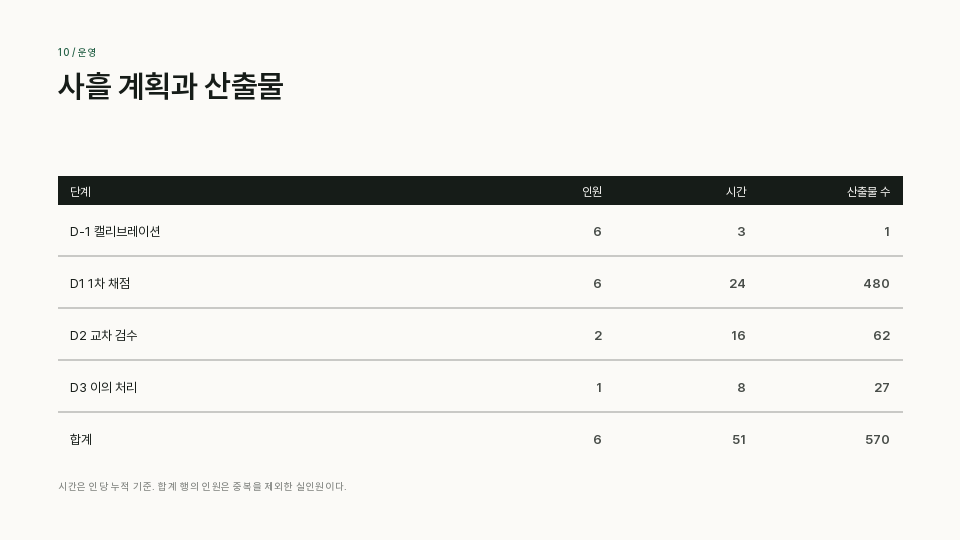
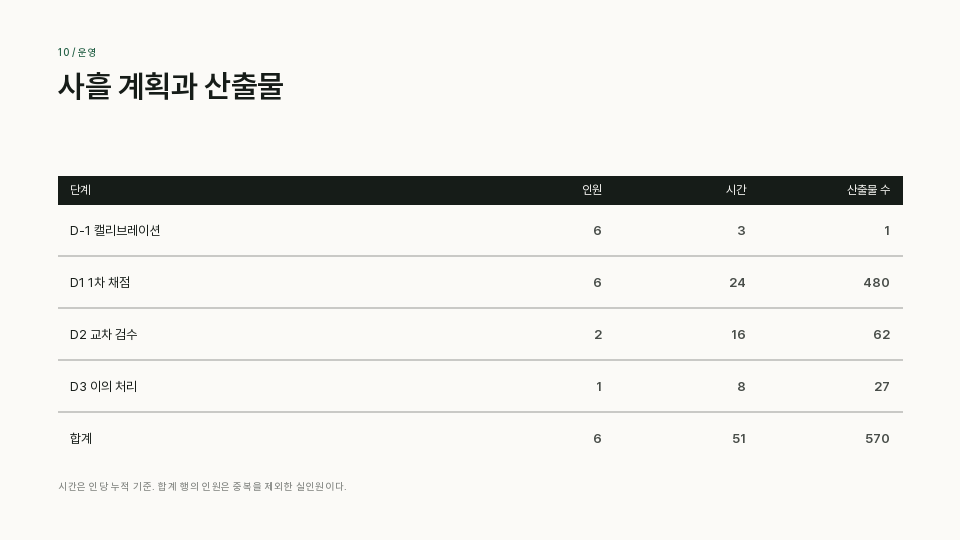
박스 내부 정렬·여백 정밀화 (지적 6건)
- two_col: 리드가 제목과 겹치던 버그. head() 가 제목 하단 y 를 돌려주고
  리드는 그 아래 14pt 에 붙는다. 본문은 분량이 적으면 13 -> 15.5pt 로 키우고
  색도 ink2 -> figure 로 (작고 흐린 회색 덩어리로 보이던 문제)
- statement: 폭을 span10 -> 11 로 넓히고 크기를 display 38 -> cover 46 으로.
  슬라이드 제목과 같은 크기면 주장으로 읽히지 않는다
- panel_list: 패널 높이를 가장 큰 것에 맞춰 통일. 번호 칩을 주문장 첫 줄의
  세로 중앙에 맞춤(전에는 상단 맞춤이라 어긋나 보였다)
- stair: 박스 내부 좌여백 축소 (배지 30 -> 16, 제목 82 -> 58).
  실측 30.2/82.1 은 838폭 기준이라 65pt 높이 박스엔 과했다
- compare: 제목+본문 블록을 패널 세로 중앙에. 배지만 중앙이고 글은 위에
  붙어 있어 따로 놀았다
- nest: 고리 라벨을 노출된 띠의 넓은 쪽으로 내리고, 오른쪽 패널 묶음을
  왼쪽 다이어그램과 세로 중심 맞춤
- table: 머리판 y 176 -> 150. 모든 셀과 머리 라벨을 행 높이 안에서
  세로 중앙에 (exact_center) — 행마다 눈높이가 흔들리지 않게

예제의 강제 줄바꿈도 제거했다. 손으로 넣은 \n 이 폭을 낭비하고 있었다.

diff --git a/scripts/build.py b/scripts/build.py
@@ -47,6 +47,7 @@ class L:
         self.block = r.get("block_y", r["content_y"])   # 도형 블록 시작 (실측 176)
         self.h = self.bottom - self.top
         self.gap = d.spec["anchors"]["gap_block"]
+        self.title_bottom = self.title_y
         self.d = d
 
     def balance(self, text, w, style):
@@ -97,6 +98,7 @@ class L:
             h = block_h(t, span_w(span), st, d.spec["fonts"][st["font"]])
             d.text(s, title_style, col_x(1), self.title_y, span_w(span), h,
                    t.split("\n"), tag="title")
+            self.title_bottom = self.title_y + h
 
     def bh(self, text, w, style):
         st = self.d.spec["styles"][style]
@@ -160,13 +162,13 @@ def statement(d, s, m, sl):
     g = L(d)
     g.head(s, sl, span=9)
     text = _t(sl, "text")
-    th = g.bh(text, span_w(10), "display")
+    th = g.bh(text, span_w(11), "cover")
     body = _paras(sl, "body")
     bh_ = g.bh("\n".join(body), span_w(7), "lead") if body else 0
     total = th + (g.gap + bh_ if bh_ else 0)
     y = resolve_y(total, d.spec, top=g.top)
     acc = sl.get("accent_lines") or []
-    d.text(s, "display", col_x(1), y, span_w(10), th, text.split("\n"),
+    d.text(s, "cover", col_x(1), y, span_w(11), th, text.split("\n"),
            accent_paras=tuple(acc), tag="statement")
     if bh_:
         d.text(s, "lead", col_x(1), y + th + g.gap, span_w(7), bh_, body,
@@ -180,32 +182,36 @@ def two_col(d, s, m, sl):
     lead = _t(sl, "lead")
     body = _paras(sl, "bullets", "body")
     lw, rw = span_w(4), span_w(7)
+    # 분량이 적을 때 13pt 로 두면 화면이 비어 보인다. 한 단계 키운다.
+    bstyle = "lead" if sum(len(b) for b in body) < 190 else "body"
     lh = g.bh(lead, lw, "lead") if lead else 0
-    rh = g.bh("\n".join(body), rw, "body") if body else 0
+    rh = g.bh("\n".join(body), rw, bstyle) if body else 0
     sub, subb = _t(sl, "subhead"), _t(sl, "subbody")
     sh_ = g.bh(sub, rw, "h2") if sub else 0
-    sbh = g.bh(subb, rw, "body") if subb else 0
+    sbh = g.bh(subb, rw, bstyle) if subb else 0
     right_total = rh + (g.gap + sh_ if sh_ else 0) + (8 + sbh if sbh else 0)
     # 좌·우 컬럼을 같은 기준선에 세우고, 남는 높이의 38%만 위에 둔다
     # 왼쪽에 리드가 없으면 2단이 아니다 — 빈 컬럼을 남기지 말고 한 단으로 넓게 쓴다
     if not lead:
         rw = span_w(9)
-        rh = g.bh("\n".join(body), rw, "body") if body else 0
+        rh = g.bh("\n".join(body), rw, bstyle) if body else 0
         sh_ = g.bh(sub, rw, "h2") if sub else 0
-        sbh = g.bh(subb, rw, "body") if subb else 0
+        sbh = g.bh(subb, rw, bstyle) if subb else 0
         right_total = rh + (g.gap + sh_ if sh_ else 0) + (8 + sbh if sbh else 0)
         col = 1
     else:
         col = 6
-    y = resolve_y(max(lh, right_total), d.spec, top=g.block)
+    # 리드는 제목 바로 아래(content_y)에 붙인다. 본문과 같은 줄에 두면 허공에 뜬다.
     if lh:
-        d.text(s, "lead", col_x(1), y, lw, lh, lead, color="muted", tag="lead")
+        d.text(s, "lead", col_x(1), max(g.top, g.title_bottom + 14), lw, lh,
+               lead, color="muted", tag="lead")
+    y = resolve_y(right_total, d.spec, top=g.block)
     if rh:
-        d.text(s, "body", col_x(col), y, rw, rh, body, color="ink2", tag="body")
+        d.text(s, bstyle, col_x(col), y, rw, rh, body, color="figure", tag="body")
     if sh_:
         d.text(s, "h2", col_x(col), y + rh + g.gap, rw, sh_, sub, tag="subhead")
         if sbh:
-            d.text(s, "body", col_x(col), y + rh + g.gap + sh_ + 8, rw, sbh, subb,
+            d.text(s, bstyle, col_x(col), y + rh + g.gap + sh_ + 8, rw, sbh, subb,
                    color="ink2", tag="subbody")
 
 
@@ -388,16 +394,22 @@ def panel_list(d, s, m, sl):
 
     px, pw = col_x(1), span_w(12)
     tx = px + SH["panel_text_x"]
-    for it in (sl.get("items") or [])[:4]:
-        lead_h = g.bh(it.get("text", ""), pw - SH["panel_text_x"] - SH["panel_pad_x"], "lead")
+    items_ = (sl.get("items") or [])[:4]
+    tw_ = pw - SH["panel_text_x"] - SH["panel_pad_x"]
+    # 패널 높이를 가장 큰 것에 맞춘다 — 높이가 제각각이면 목록이 흐트러져 보인다
+    ph = max(SH["panel_pad_y"] + g.bh(it.get("text", ""), tw_, "lead") + 8
+             + len(it.get("subs") or []) * SH["subrow_step"] + SH["panel_pad_y"]
+             for it in items_) if items_ else 0
+    for it in items_:
+        lead_h = g.bh(it.get("text", ""), tw_, "lead")
         subs = it.get("subs") or []
-        ph = SH["panel_pad_y"] + lead_h + 8 + len(subs) * SH["subrow_step"] + SH["panel_pad_y"]
         d.panel(s, px, y, pw, ph, radius=SH["panel_radius"])
-        d.chip(s, px + SH["panel_pad_x"] + 0.5, y + SH["panel_pad_y"],
+        # 칩을 주문장 첫 줄의 세로 중앙에 맞춘다
+        line_h = d.spec["styles"]["lead"]["size"] * d.spec["styles"]["lead"]["leading"]
+        d.chip(s, px + SH["panel_pad_x"], y + SH["panel_pad_y"] + (line_h - SH["chip_h"]) / 2,
                SH["chip_w"], SH["chip_h"], str(it.get("index", "")),
                color="accent", text_color="ground", style="small")
-        d.text(s, "lead", tx, y + SH["panel_pad_y"] + 1,
-               pw - SH["panel_text_x"] - SH["panel_pad_x"], lead_h,
+        d.text(s, "lead", tx, y + SH["panel_pad_y"], tw_, lead_h,
                it.get("text", ""), font_key="head", tag="panel-text")
         sy = y + SH["panel_pad_y"] + lead_h + 8
         for k, sub in enumerate(subs):
@@ -563,11 +575,13 @@ def compare(d, s, m, sl):
         tc = "ground" if good else "figure"
         bc = "ground" if good else "ink2"
         th = g.bh(it.get("title", ""), tw, "h2")
-        d.text(s, "h2", tx, y + 50, tw, th, it.get("title", ""), color=tc,
+        bh_ = g.bh(it["body"], tw, "body") if it.get("body") else 0
+        blk = th + (14 + bh_ if bh_ else 0)
+        ty = y + (ph - blk) / 2                 # 제목+본문을 패널 세로 중앙에
+        d.text(s, "h2", tx, ty, tw, th, it.get("title", ""), color=tc,
                tag="compare-title")
-        if it.get("body"):
-            bh_ = g.bh(it["body"], tw, "body")
-            d.text(s, "body", tx, y + 50 + th + 12, tw, bh_, it["body"],
+        if bh_:
+            d.text(s, "body", tx, ty + th + 14, tw, bh_, it["body"],
                    color=bc, tag="compare-body")
 
 
@@ -591,12 +605,15 @@ def nest(d, s, m, sl):
         y = oy + k * 42
         d.oval(s, x, y, w, h, color=tones[k])
         # 가장 안쪽 고리는 라벨을 세로 중앙에 — 바깥 고리는 위쪽에 얹어 겹침을 피한다
-        ly = y + (h - 24) / 2 if k == 2 else y + h * 0.10
-        d.text(s, "lead", x, ly, w, 24, str(rings[k].get("name", "")),
+        ly = y + (h - 26) / 2 if k == 2 else y + 20
+        d.text(s, "lead", x, ly, w, 26, str(rings[k].get("name", "")),
                align="center", color="ground" if k == 2 else "figure", tag="ring-label")
 
     rx, rw = col_x(7), span_w(6)
-    pyy, phh = g.block, 80
+    phh = 80
+    stack = 3 * phh + 2 * 9 + (12 + 40 if sl.get("conclusion") else 0)
+    diag_h = oy + 2 * 42 + oh * 0.39 - g.block          # 왼쪽 그림의 실제 높이
+    pyy = g.block + max(0.0, (max(diag_h, oh) - stack) / 2)
     for k, r in enumerate(rings):
         y = pyy + k * (phh + 9)
         d.panel(s, rx, y, rw, phh, color="accent_tint", radius=SH["panel_radius"])
@@ -625,19 +642,22 @@ def table(d, s, m, sl):
         warn(f"slide {d._slide_i}: 표 {len(rows)}행 > 한도 {lim}행 — 슬라이드를 나눠라")
     rows = rows[:lim]
     cols, pad = table_columns(d, n), T["pad_x"]
-    hy = g.block
+    hy = T.get("header_y", g.block)
     avail = g.bottom - hy - T["header_h"] - (26 if sl.get("footnote") else 0)
     row_h = min(52.0, max(T["row_h"], avail / max(1, len(rows))))
     d.plate(s, col_x(1), hy, span_w(12), T["header_h"], color="figure")
     for (x, w, align, tx), h in zip(cols, heads[:n]):
-        d.text(s, "small", tx if align == "left" else x, hy + 7, w - pad, 18,
-               str(h), color="ground", align=align, tag="th")
+        # 머리 라벨도 판 세로 중앙에
+        d.text(s, "small", tx if align == "left" else x, hy, w - pad, T["header_h"],
+               str(h), color="ground", align=align, anchor="middle",
+               exact_center=True, tag="th")
     for i, row in enumerate(rows):
         y = hy + T["header_h"] + i * row_h
         for (x, w, align, tx), cell in zip(cols, row[:n]):
-            d.text(s, "body", tx if align == "left" else x,
-                   y + (row_h - 20) / 2, w - pad, 20,
-                   str(cell), align=align, color="figure" if align == "left" else "ink2",
+            # 셀 글씨를 행 높이 안에서 세로 중앙에 — 행마다 눈높이가 흔들리지 않게
+            d.text(s, "body", tx if align == "left" else x, y, w - pad, row_h,
+                   str(cell), align=align, anchor="middle", exact_center=True,
+                   color="figure" if align == "left" else "ink2",
                    font_key="head" if align == "right" else None, tag="td")
         if i < len(rows) - 1:
             d.table_rule(s, col_x(1), y + row_h - 0.5, span_w(12))
